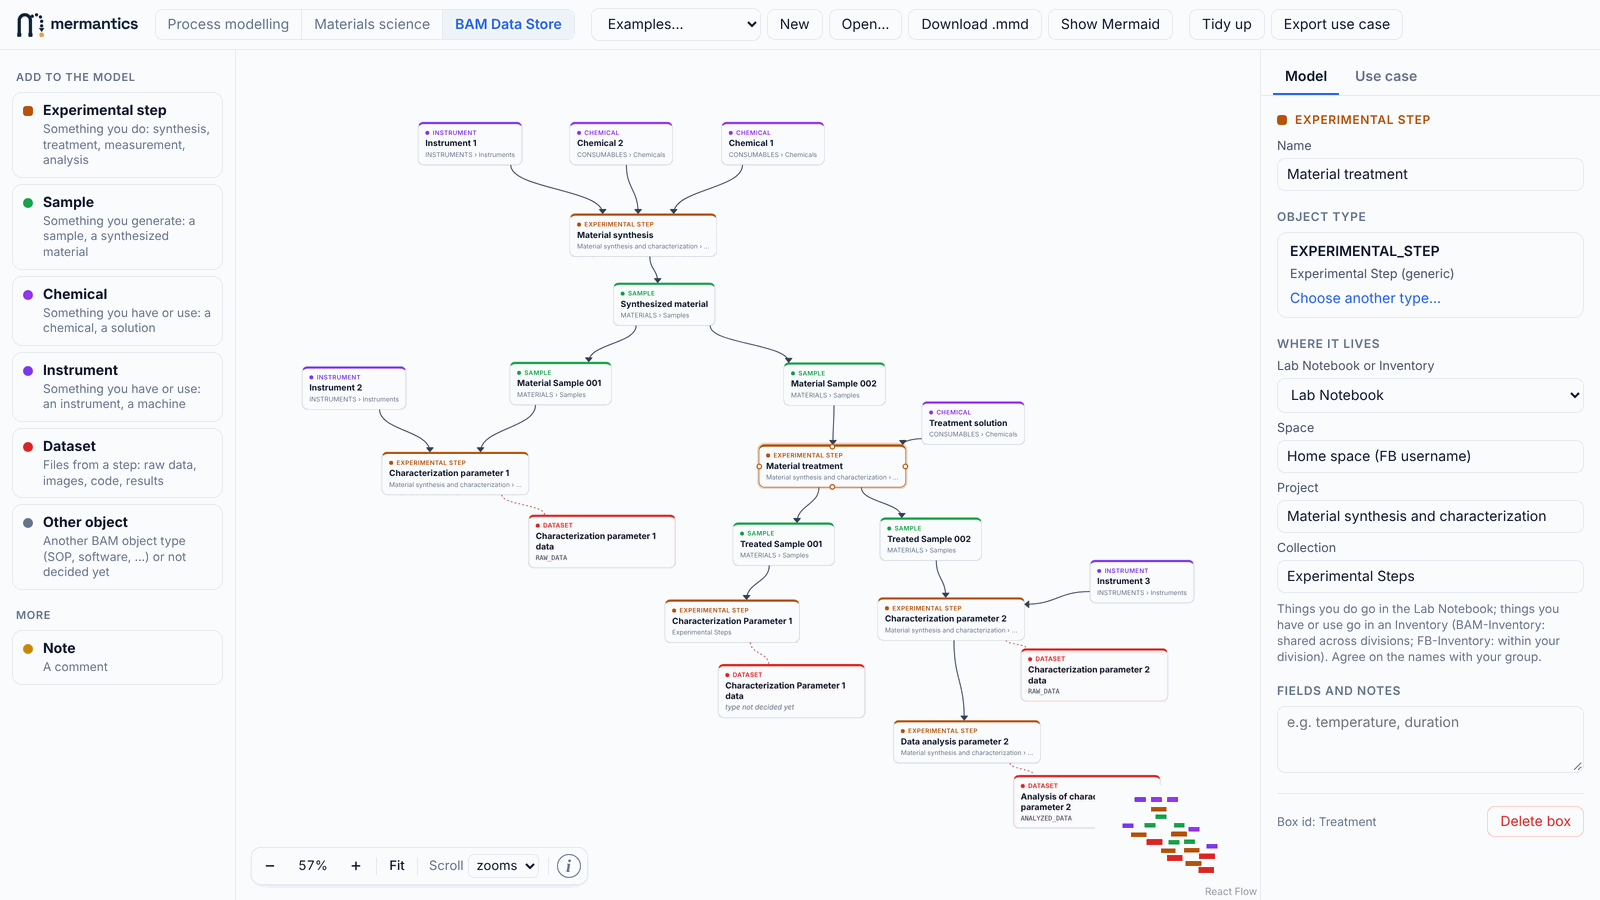
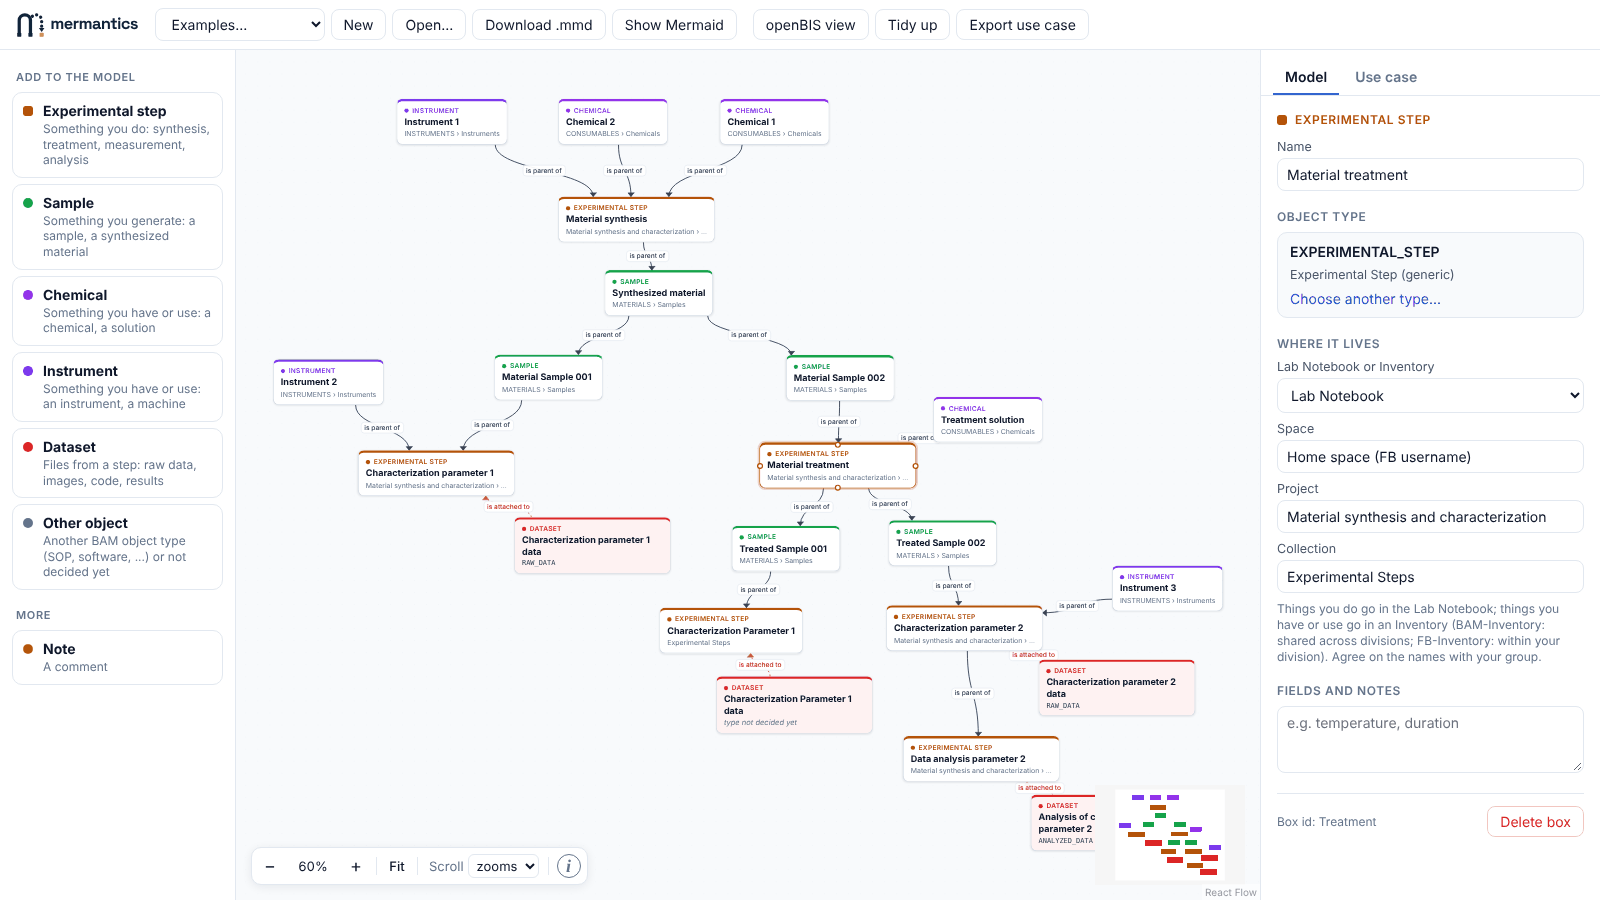
Remove the section switch from the canvas top bar (#32)
The start page already offers the four sections, and nobody needs to
switch while drawing, so the switch only made the top bar crowded. The
logo still leads back to the start page; the start page now says so.

Also removes what only the switch used (the short section names, the
flag that hid a section from it, its styles), and updates the two README
screenshots, which showed the switch.

diff --git a/web/src/canvas/mode.ts b/web/src/canvas/mode.ts
@@ -36,14 +36,12 @@ export interface Example {
 export interface Mode {
   id: ModeId;
   title: string; // on the start page
-  short: string; // in the section switch
   description: string;
   ontology: boolean; // load PMDco and check the diagram
   datastore: boolean; // BAM Data Store: openBIS object types, parent-child arrows, no relation menu
   patterns: boolean; // the built-in PMDco patterns and saving your own
   patternIds?: string[]; // only these built-in patterns (all if not set)
   options?: boolean; // design options: several diagrams per option, a compare view
-  hidden?: boolean; // not in the section switch yet (only with ?mode=...)
   shapes: Shape[];
   extraShapes: Shape[];
   examples: Example[];
@@ -55,7 +53,6 @@ export const MODES: Record<ModeId, Mode> = {
   process: {
     id: "process",
     title: "Domain-agnostic process modelling",
-    short: "Process modelling",
     description: "Draw any process: its steps, what goes in and comes out, and who or what carries it out. "
       + "Name the arrows in your own words. No ontology needed.",
     ontology: false,
@@ -70,7 +67,6 @@ export const MODES: Record<ModeId, Mode> = {
   mse: {
     id: "mse",
     title: "Materials science and engineering",
-    short: "Materials science",
     description: "Build a data model grounded in PMDco. Boxes and arrows get ontology terms, "
       + "and the model is checked as you draw.",
     ontology: true,
@@ -91,7 +87,6 @@ export const MODES: Record<ModeId, Mode> = {
   datastore: {
     id: "datastore",
     title: "BAM Data Store",
-    short: "BAM Data Store",
     description: "Plan how your research data goes into the BAM Data Store (openBIS): experimental steps, "
       + "samples, chemicals, instruments and datasets, linked as parents and children. No ontology needed.",
     ontology: false,
@@ -106,7 +101,6 @@ export const MODES: Record<ModeId, Mode> = {
   comp: {
     id: "comp",
     title: "PMD Hackathon - Computations",
-    short: "Computations",
     description: "Compare design options for computational terms in PMDco: what each option proposes, "
       + "and how a DFT and an FEM calculation look in it. Checked against PMDco as you draw.",
     ontology: true,

diff --git a/web/src/canvas/App.tsx b/web/src/canvas/App.tsx
@@ -26,7 +26,7 @@ import { openbisLayout } from "./openbisLayout.js";
 import { NARROW, TOUCH, useMedia } from "./media.js";
 import { emptyUseCase, fromMermaid, makeId, toMermaid, type Arrow, type ArrowData, type Box, type BoxData, type Problem,
          type UseCase } from "./model.js";
-import { MODES, type Mode, type ModeId } from "./mode.js";
+import type { Mode } from "./mode.js";
 import { checkStatus, Compare, OptionBar, OptionPanel, TermsTree } from "./Options.js";
 import { EMPTY_VIEW, newOptionId, nextLetter, originalView, readState, resultsMarkdown, VIEWS, type DesignOption,
          type OptionsState, type ViewId } from "./options.js";
@@ -102,7 +102,7 @@ interface PendingArrow {
  * The canvas for one section (process modelling, or materials science and engineering).
  * Switching sections mounts a new App, so each section starts from its own saved diagram.
  */
-export function App({ mode, onSwitch, onHome }: { mode: Mode; onSwitch: (id: ModeId) => void; onHome: () => void }) {
+export function App({ mode, onHome }: { mode: Mode; onHome: () => void }) {
   const EXAMPLES = mode.examples;
   // Design options (computations section): all options, which one is on the canvas, the workshop's use case.
   const [opts, setOpts] = useState<OptionsState | null>(() => (mode.options ? readState(storedIn(mode.storageKey)) : null));
@@ -693,14 +693,6 @@ export function App({ mode, onSwitch, onHome }: { mode: Mode; onSwitch: (id: Mod
         <button type="button" className="logo-button" title="Back to the start page" onClick={onHome}>
           <img className="logo" src={logo} alt="mermantics" />
         </button>
-        <div className="switch" role="tablist" aria-label="Section">
-          {(Object.values(MODES)).filter((m) => !m.hidden || m.id === mode.id).map((m) => (
-            <button type="button" role="tab" key={m.id} aria-selected={m.id === mode.id} className={m.id === mode.id ? "on" : ""}
-                    title={m.title} onClick={() => m.id !== mode.id && onSwitch(m.id)}>
-              {m.short}
-            </button>
-          ))}
-        </div>
         <div className="bar-group">
           {EXAMPLES.length > 0 && (
             <select value="" onChange={(e) => {

diff --git a/web/src/canvas/canvas.css b/web/src/canvas/canvas.css
@@ -284,12 +284,8 @@ button, input, select, textarea { font: inherit; color: inherit; }
   color: var(--text); background: #f8fafc; white-space: pre; user-select: text; }
 .mermaid-foot { margin: 0; padding: 8px 12px; border-top: 1px solid var(--line); }
 
-/* Sections: the switch in the top bar and the start page */
+/* Sections: the start page */
 .logo-button { border: 0 !important; background: none !important; padding: 0 !important; display: flex; cursor: pointer; }
-.switch { display: flex; flex-shrink: 0; border: 1px solid var(--line); border-radius: 8px; overflow: hidden; }
-.bar .switch button { border: 0; border-radius: 0; padding: 6px 12px; background: #fff; color: var(--muted); }
-.bar .switch button + button { border-left: 1px solid var(--line); }
-.bar .switch button.on { background: #eff6ff; color: var(--accent); font-weight: 600; }
 
 .start { min-height: 100%; display: flex; flex-direction: column; align-items: center; justify-content: center; gap: 20px; padding: 40px 24px; }
 .start-logo { height: 40px; }

diff --git a/web/src/canvas/Start.tsx b/web/src/canvas/Start.tsx
@@ -20,7 +20,7 @@ export function Start({ onChoose }: { onChoose: (id: ModeId) => void }) {
         })}
       </div>
       <p className="start-foot">
-        Each section saves a plain Mermaid file, and you can switch at any time from the top bar.
+        Each section saves a plain Mermaid file. The logo at the top left of the canvas brings you back here.
       </p>
     </div>
   );

diff --git a/web/src/canvas/main.tsx b/web/src/canvas/main.tsx
@@ -20,7 +20,7 @@ function Root() {
   return (
     // A new provider and App per section, so nothing carries over from the other one.
     <ReactFlowProvider key={mode}>
-      <App mode={MODES[mode]} onSwitch={choose} onHome={() => choose(null)} />
+      <App mode={MODES[mode]} onHome={() => choose(null)} />
     </ReactFlowProvider>
   );
 }
